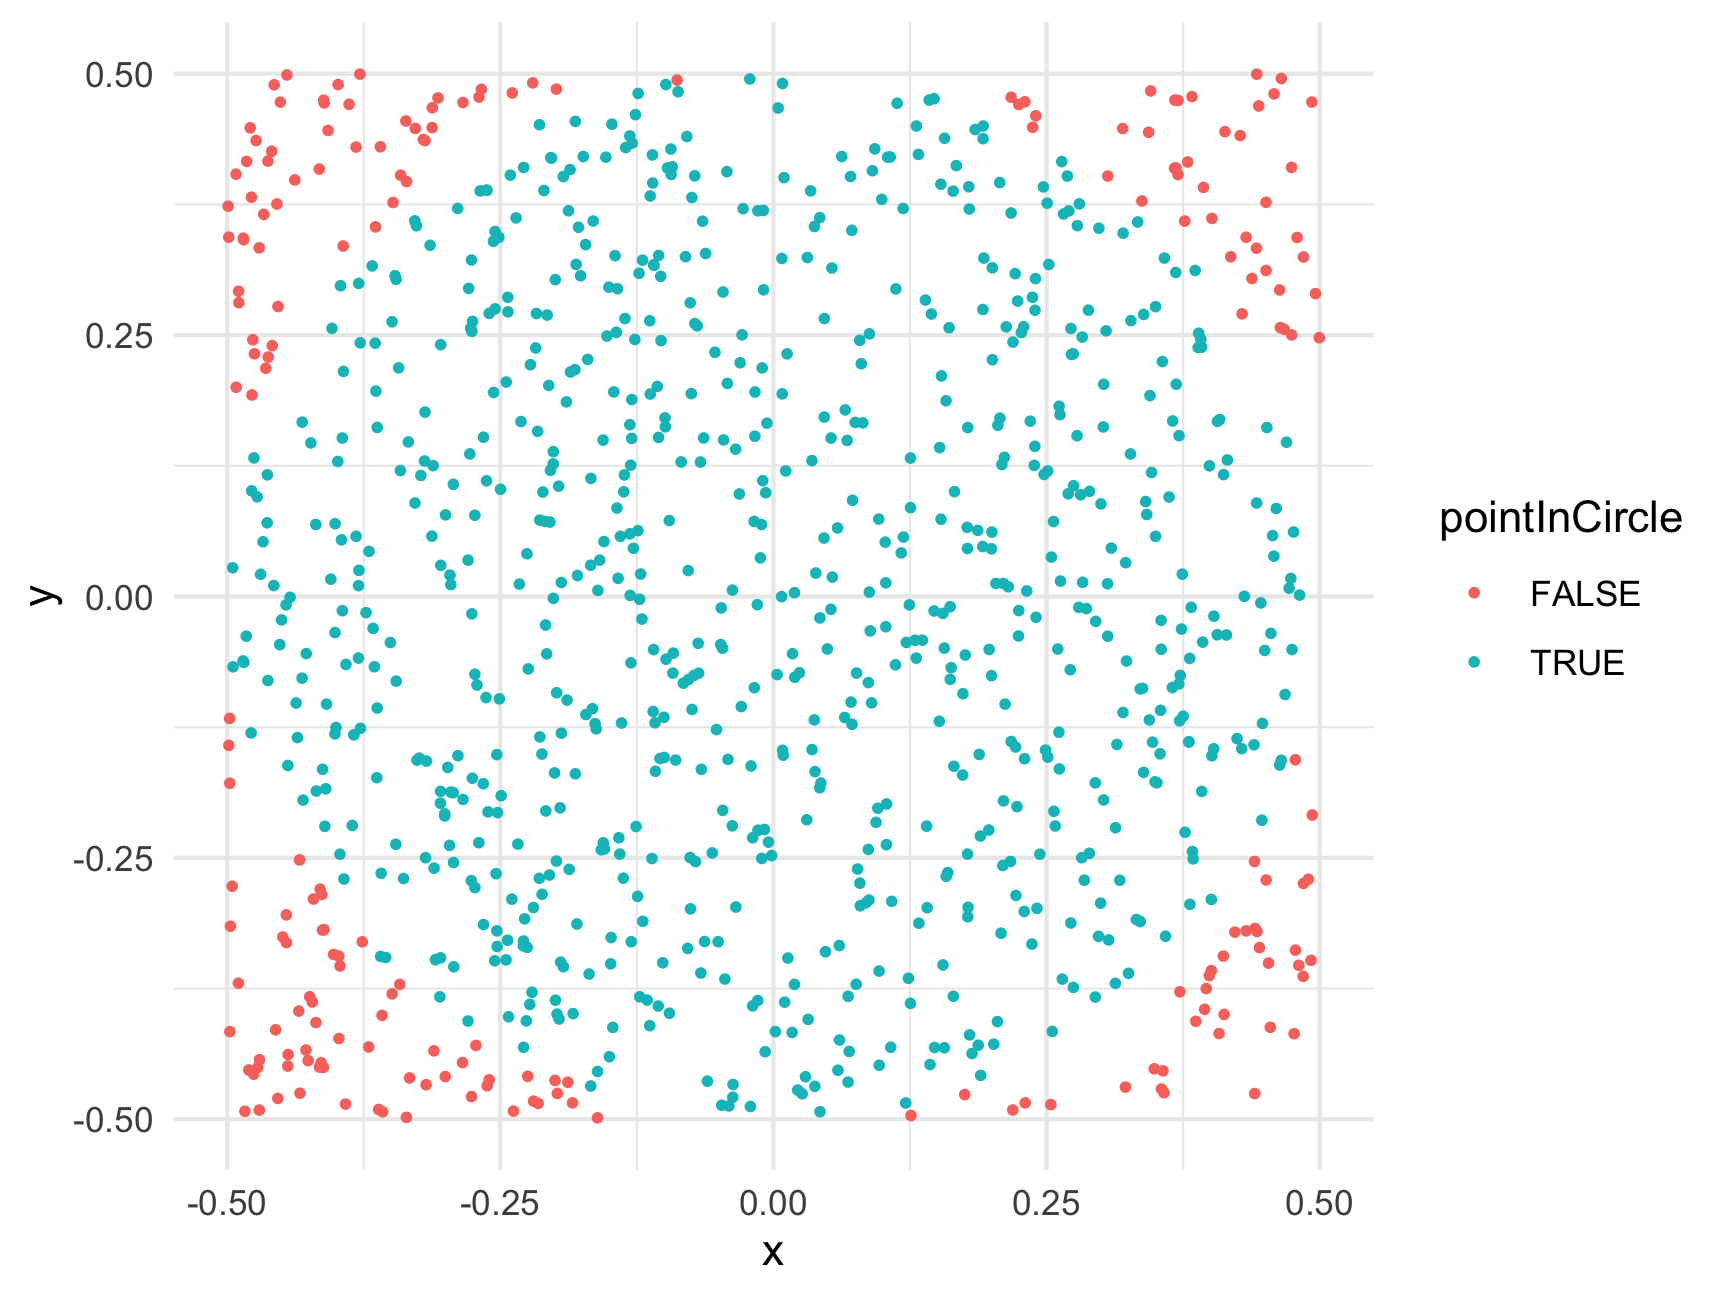
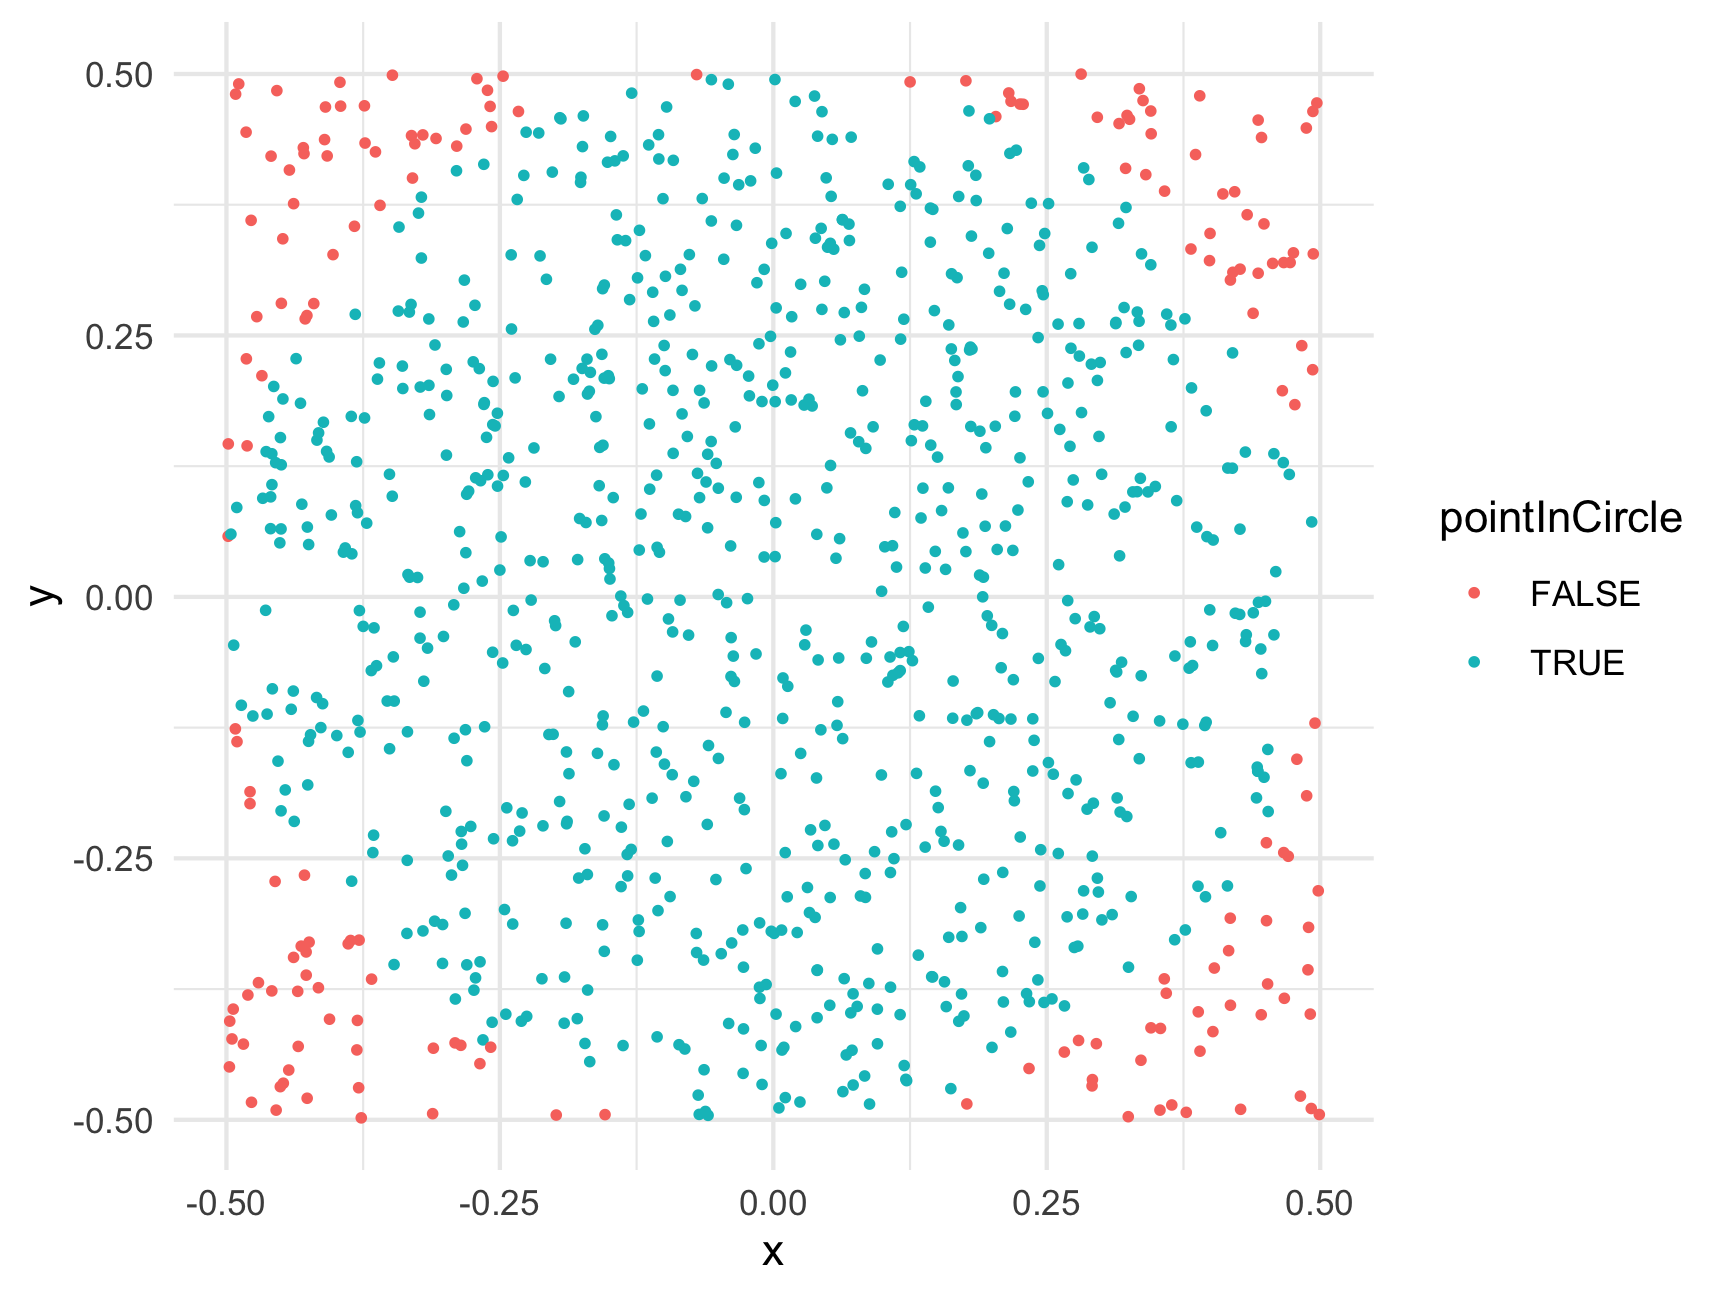
Deploying to gh-pages from  @ 6be0080575f2848d795cb07a033d651474bf8f49 🚀

diff --git a/r13-monte-carlo-methods.html b/r13-monte-carlo-methods.html
@@ -805,11 +805,11 @@ ratio &lt;- sum(belowCurve) / numTrials
 totalArea &lt;- (7 - 3) * 7^2 # Rectangle length x height = 196
 areaUnderCurve &lt;- ratio * totalArea
 areaUnderCurve</code></pre>
-<pre><code>#&gt; [1] 105.1854</code></pre>
-<p>So, using Monte Carlo simulation with 100,000 points, we estimate that the area under the curve is 105.18536. How’d we do? Well, if you’re familiar with calculus, the integral of <span class="math inline">\(f(x) = x^2\)</span> has a closed-form solution (<span class="math inline">\(\frac{x^3}{3} + C\)</span>), so we can check our estimate against the pure-math solution:</p>
+<pre><code>#&gt; [1] 105.6107</code></pre>
+<p>So, using Monte Carlo simulation with 100,000 points, we estimate that the area under the curve is 105.61068. How’d we do? Well, if you’re familiar with calculus, the integral of <span class="math inline">\(f(x) = x^2\)</span> has a closed-form solution (<span class="math inline">\(\frac{x^3}{3} + C\)</span>), so we can check our estimate against the pure-math solution:</p>
 <p><span class="math display">\[\int_{3}^{7} x^2 \mathrm{dx} = \left ( \frac{x^3}{3} \right ) \Big|_3^7 = \frac{7^3}{3} - \frac{3^3}{3} = 105.33\bar{3}\]</span></p>
-<p>So our estimate error is: <code>105.333 -</code> <code>105.18536</code> <code>=</code> <code>0.1479733</code>.</p>
-<p>That’s an error of just 0.14 % - not bad!</p>
+<p>So our estimate error is: <code>105.333 -</code> <code>105.61068</code> <code>=</code> <code>-0.2773467</code>.</p>
+<p>That’s an error of just 0.26 % - not bad!</p>
 <hr />
 </div>
 <div id="monte-carlo-pi" class="section level1">
@@ -839,13 +839,13 @@ points &lt;- data.frame(
     x = runif(numTrials, -0.5, 0.5),
     y = runif(numTrials, -0.5, 0.5))
 head(points)</code></pre>
-<pre><code>#&gt;             x           y
-#&gt; 1 -0.09163781 -0.05416656
-#&gt; 2 -0.07846413 -0.33659460
-#&gt; 3 -0.16221753 -0.12654246
-#&gt; 4 -0.43131319  0.16671938
-#&gt; 5  0.46335170 -0.16120703
-#&gt; 6 -0.17987103 -0.31324822</code></pre>
+<pre><code>#&gt;            x           y
+#&gt; 1 -0.4060928  0.13380687
+#&gt; 2 -0.2972395 -0.24774170
+#&gt; 3 -0.1682203  0.19666650
+#&gt; 4 -0.1547499 -0.20945354
+#&gt; 5 -0.2661128  0.01511667
+#&gt; 6 -0.3349955 -0.32179012</code></pre>
 <p>For this example, we’re putting the points in a data frame to make it easier to work with. Now that we have random x and y points, let’s compute the radius to each point (the distance from <code>(x, y) = (0, 0)</code>) so we can determine which points fall inside the circle (which has a radius of 0.5):</p>
 <pre class="r"><code>library(dplyr)
 points &lt;- points %&gt;%
@@ -862,9 +862,9 @@ ggplot(points) +
 <pre class="r"><code>ratio &lt;- sum(points$pointInCircle) / nrow(points)
 piApprox &lt;- 4 * ratio
 piApprox</code></pre>
-<pre><code>#&gt; [1] 3.184</code></pre>
-<p>So our estimate error is: <code>3.1415 -</code> <code>3.184</code> <code>=</code> <code>0.0424073</code>.</p>
-<p>That’s an error of just 1.35 % - not bad for only 1,000 points!</p>
+<pre><code>#&gt; [1] 3.28</code></pre>
+<p>So our estimate error is: <code>3.1415 -</code> <code>3.28</code> <code>=</code> <code>0.1384073</code>.</p>
+<p>That’s an error of just 4.41 % - not bad for only 1,000 points!</p>
 <p>To get an even better estimate of <span class="math inline">\(\pi\)</span>, we can increase N. Let’s see what we get with 100,000 trials:</p>
 <pre class="r"><code>numTrials &lt;- 100000
 points &lt;- data.frame(
@@ -876,13 +876,13 @@ points &lt;- data.frame(
 ratio &lt;- sum(points$pointInCircle) / nrow(points)
 piApprox &lt;- 4 * ratio
 piApprox</code></pre>
-<pre><code>#&gt; [1] 3.14256</code></pre>
+<pre><code>#&gt; [1] 3.13916</code></pre>
 <pre class="r"><code># Compute error:
 error &lt;- piApprox - pi
 percentError &lt;- round(100*abs(error / pi), 2)
 percentError</code></pre>
-<pre><code>#&gt; [1] 0.03</code></pre>
-<p>By increasing the number of trials from 1,000 to 100,000, we improved our estimate error from 1.35 % to 0.03 %!</p>
+<pre><code>#&gt; [1] 0.08</code></pre>
+<p>By increasing the number of trials from 1,000 to 100,000, we improved our estimate error from 4.41 % to 0.08 %!</p>
 <hr />
 <p><strong>Page sources</strong>:</p>
 <p>Some content on this page has been modified from other courses, including:</p>

diff --git a/r2-functions-packages.html b/r2-functions-packages.html
@@ -763,7 +763,7 @@ div.tocify {
 <p>Here the letters <code>sqrt</code> are short for “square root,” and the value inside the <code>()</code> is the “argument” to the function. In the example above, the value <code>225</code> is the “argument”.</p>
 <p>Keep in mind that not all functions have (or require) arguments:</p>
 <pre class="r"><code>date() # Returns the current date and time</code></pre>
-<pre><code>#&gt; [1] &quot;Wed Feb 16 18:19:51 2022&quot;</code></pre>
+<pre><code>#&gt; [1] &quot;Thu Feb 17 17:26:14 2022&quot;</code></pre>
 <p>(the date above is the date this page was last built)</p>
 <div id="multiple-arguments" class="section level2">
 <h2>Multiple arguments</h2>
@@ -981,9 +981,9 @@ library(packagename)   # This also works</code></pre>
 <p>Now that you have the package installed on your computer, try loading it using <code>library(wikifacts)</code>, then trying using some of it’s functions:</p>
 <pre class="r"><code>library(wikifacts) # Load the library</code></pre>
 <pre class="r"><code>wiki_randomfact()</code></pre>
-<pre><code>#&gt; [1] &quot;Did you know that on September 9 in 1791 – The commissioners overseeing the construction of the United States&#39; new capital city named it in honor of the first president: Washington, D.C. (Courtesy of Wikipedia)&quot;</code></pre>
+<pre><code>#&gt; [1] &quot;Here&#39;s some news from 14 August 2019. American novelist Toni Morrison dies at the age of 88. (Courtesy of Wikipedia)&quot;</code></pre>
 <pre class="r"><code>wiki_didyouknow()</code></pre>
-<pre><code>#&gt; [1] &quot;Did you know that mezzo-soprano Ruth Sandhoff performed a soprano part in the Magnificat by Johann Sebastian Bach and an alto part in his son&#39;s Magnificat? (Courtesy of Wikipedia)&quot;</code></pre>
+<pre><code>#&gt; [1] &quot;Did you know that the 1909 Varsity Match came to be known as Poulton&#39;s Match after Ronnie Poulton scored a record five tries? (Courtesy of Wikipedia)&quot;</code></pre>
 <p>In case you’re wondering, the only thing this package does is generate messages containing random facts from <a href="https://www.wikipedia.org/">Wikipedia</a>.</p>
 </div>
 <div id="using-only-some-package-functions" class="section level2">
@@ -994,7 +994,7 @@ library(packagename)   # This also works</code></pre>
 </blockquote>
 <p>Here I use the name of the <em>package</em> followed by <code>::</code> to tell R that I’m looking for a function that is in that package. For example, if I didn’t want to load the whole <strong>wikifacts</strong> library but still wanted to use the <code>wiki_randomfact()</code> function, I could do this:</p>
 <pre class="r"><code>wikifacts::wiki_randomfact()</code></pre>
-<pre><code>#&gt; [1] &quot;Did you know that on August 10 in 1966 – The Heron Road Bridge in Ottawa, Canada, collapsed during its construction, killing nine workers. (Courtesy of Wikipedia)&quot;</code></pre>
+<pre><code>#&gt; [1] &quot;Here&#39;s some news from 12 August 2021. Belarusian sprinter Krystsina Tsimanouskaya travels to Poland on a humanitarian visa after attempts by the Belarus Olympic Committee to repatriate her against her will. (Courtesy of Wikipedia)&quot;</code></pre>
 <p>Where this is particularly handy is when two packages have a function with the same name. If you load both library, R might not know which function to use. In those cases, it’s best to also provide the <strong>package</strong> name. For example, let’s say there was a package called <strong>apples</strong> and another called <strong>bananas</strong>, and each had a function named <code>fruitName()</code>. If I wanted to use each of them in my code, I would need to specify the package names like this:</p>
 <pre class="r"><code>apples::fruitName()
 bananas::fruitName()</code></pre>

diff --git a/c6-vectors.html b/c6-vectors.html
@@ -31,6 +31,7 @@
 <script src="site_libs/navigation-1.1/tabsets.js"></script>
 <link href="site_libs/highlightjs-9.12.0/textmate.css" rel="stylesheet" />
 <script src="site_libs/highlightjs-9.12.0/highlight.js"></script>
+<script src="site_libs/fitvids-2.1.1/fitvids.min.js"></script>
 <link href="site_libs/font-awesome-5.1.0/css/all.css" rel="stylesheet" />
 <link href="site_libs/font-awesome-5.1.0/css/v4-shims.css" rel="stylesheet" />
 <link rel="icon" href="images/favicon.ico">
@@ -656,7 +657,35 @@ $(document).ready(function () {
 </div>
 
 
-<p>Coming soon!</p>
+<div class = "row">
+<div class="col-md-5">
+<p><strong>KEYBOARD SHORTCUTS FOR SLIDES:</strong></p>
+<ul>
+<li>Use <kbd>←</kbd> and <kbd>→</kbd> to navigate through the slides.</li>
+<li>Use <kbd>f</kbd> to toggle full screen.</li>
+<li>Use <kbd>o</kbd> to view an overview of all slides.</li>
+<li>Use <kbd>h</kbd> to see a list of other shortcuts.</li>
+</ul>
+</div>
+<div class="row">
+<div class="col-md-3">
+<div class="class-buttons">
+<p><strong>SLIDES</strong></p>
+<p><a href=class/6-vectors/index.html class="btn-slides" target="_blank"><i class="fas fa-external-link-alt"></i> View in new window</a></p>
+<p><a href=class/6-vectors/6-vectors.pdf class="btn-slides"><i class="fas fa-file-pdf"></i> Download as PDF</a></p>
+</div>
+</div>
+<div class="col-md-3">
+<div class="class-buttons">
+<p><strong>CLASS PRACTICE</strong></p>
+<p><a href=class/6-vectors/6-vectors.zip class="btn-notes"><i class="fas fa-download"></i> Download zip file</a></p>
+</div>
+</div>
+</div>
+<div class="shareagain" style="min-width:300px;margin:1em auto;">
+<iframe src="class/6-vectors/index.html" width="1600" height="900" style="border:2px solid currentColor;" loading="lazy" allowfullscreen></iframe>
+<script>fitvids('.shareagain', {players: 'iframe'});</script>
+</div>
 
 <hr>
 
